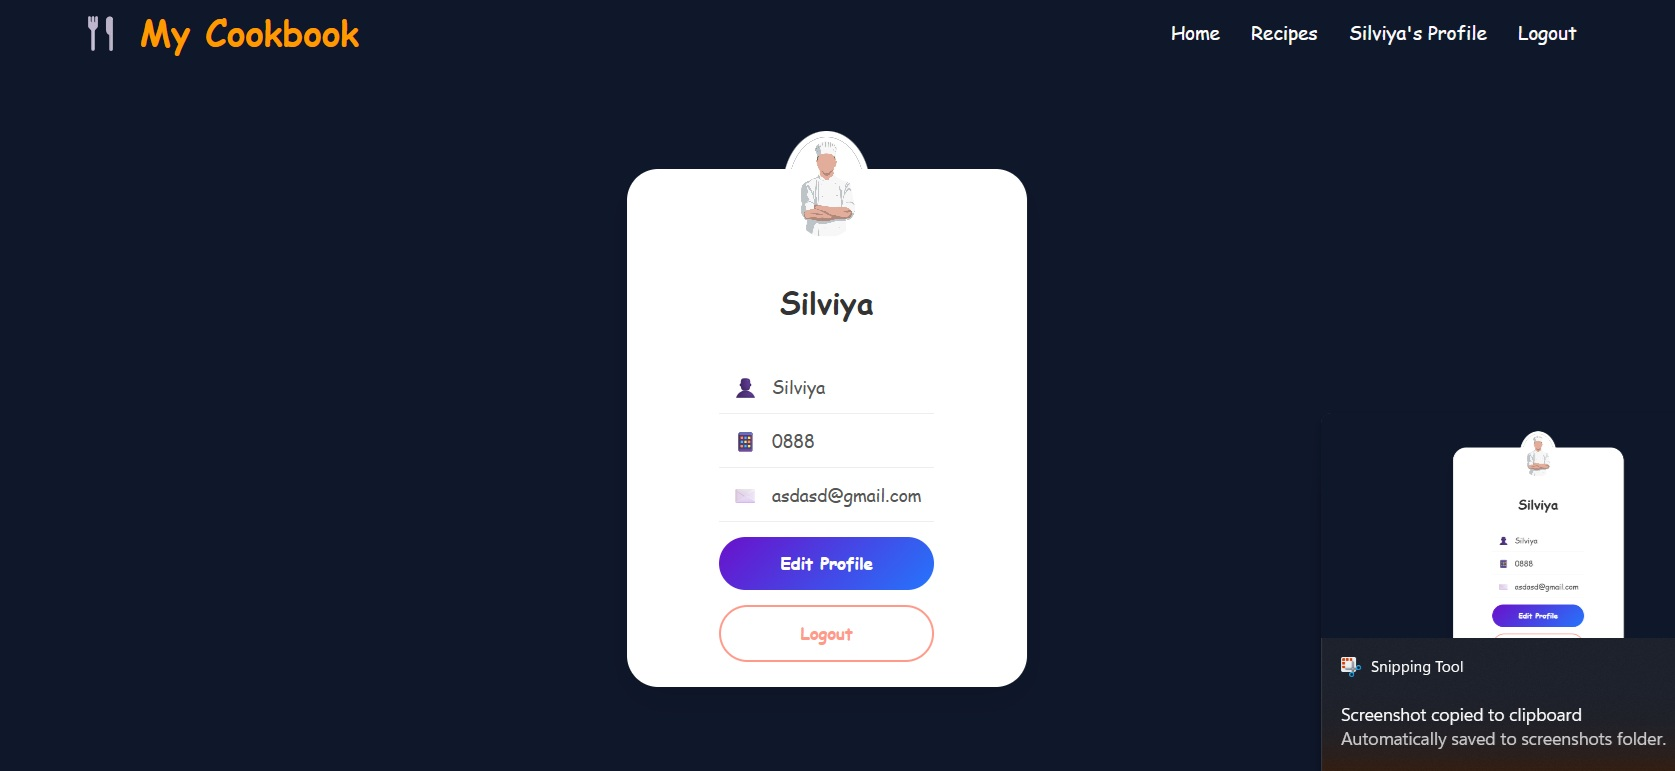
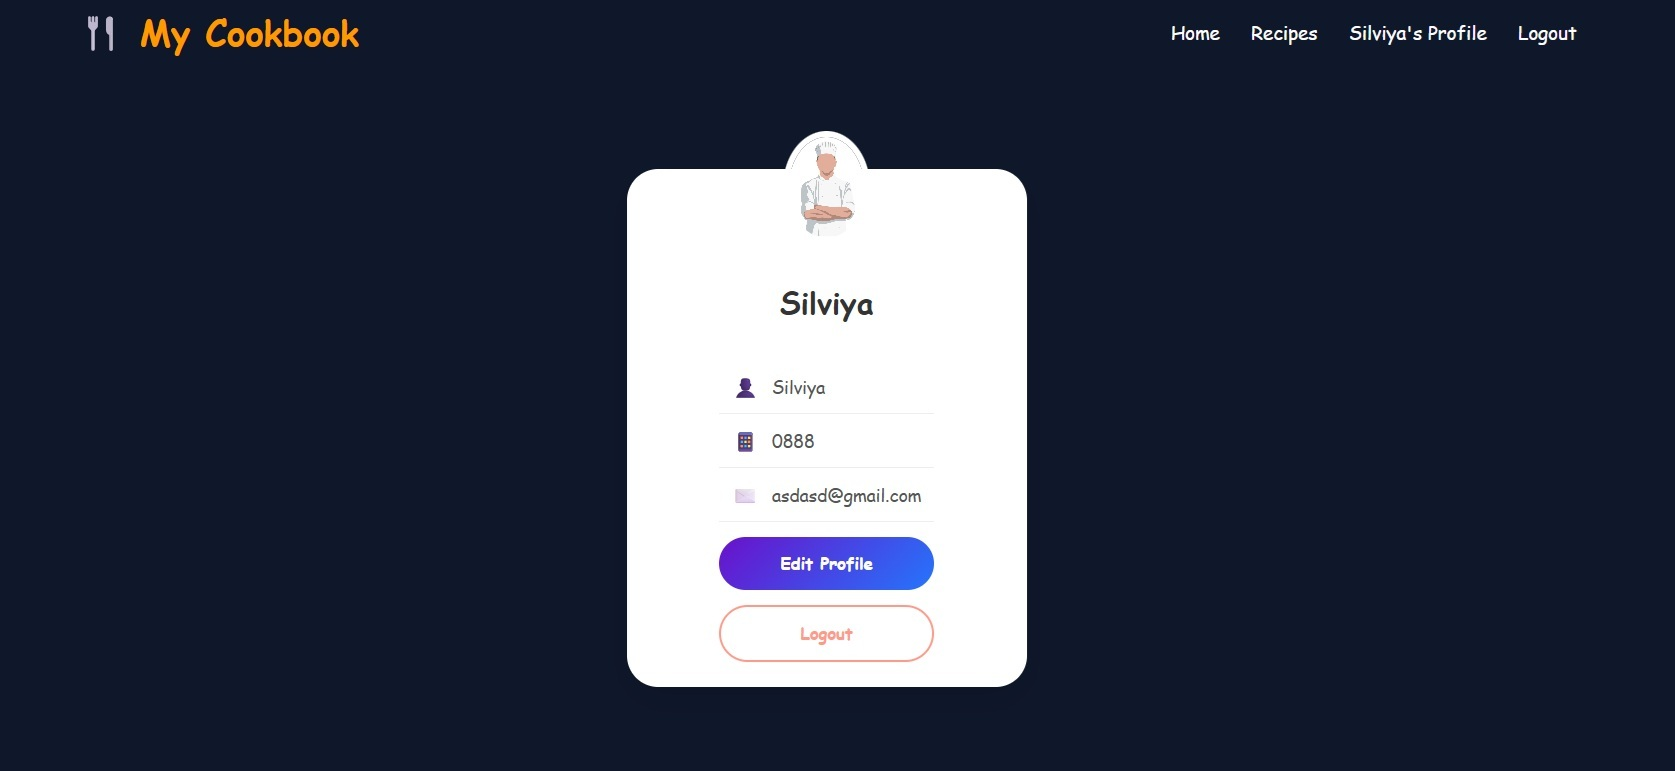
add delete component and upload readMe

Changed region(s): [[0.8693, 0.5603, 0.9934, 0.8405], [0.7761, 0.9027, 1.0, 1.0], [0.7761, 0.8405, 0.8693, 0.8716]]

diff --git a/My-Cookbook/src/app/features/recipes/delete-recipe/delete-recipe.ts b/My-Cookbook/src/app/features/recipes/delete-recipe/delete-recipe.ts
@@ -1,0 +1,65 @@
+import { Component, inject, OnInit } from '@angular/core';
+import { Recipe } from '../../../shared/interfaces/recipe';
+import { AuthService } from '../../../core/services/auth';
+import { ApiService } from '../../../core/services/api.service';
+import { ActivatedRoute, Router } from '@angular/router';
+
+@Component({
+  selector: 'app-delete-recipe',
+  imports: [],
+  templateUrl: './delete-recipe.html',
+  styleUrl: './delete-recipe.css',
+})
+export class DeleteRecipeComponent implements OnInit {
+  private route = inject(ActivatedRoute);
+  private router = inject(Router);
+  private apiService = inject(ApiService);
+  private authService = inject(AuthService);
+
+  recipe!: Recipe;
+  recipeId = '';
+
+  ngOnInit(): void {
+    this.recipeId = this.route.snapshot.params['recipeId'];
+    this.loadRecipe();
+  }
+
+  loadRecipe(): void {
+    this.apiService.getRecipeById(this.recipeId).subscribe({
+      next: (recipe) => {
+        this.recipe = recipe;
+      },
+      error: () => {
+        this.router.navigate(['/not-found'], { queryParams: { from: 'invalid-recipe' } });
+      },
+    });
+  }
+
+  isRecipeOwner(): boolean {
+    const currentUser = this.authService.currentUser();
+    if (!currentUser || !this.recipe) {
+      return false;
+    }
+
+    return this.recipe.owner === currentUser._id;
+  }
+
+  onDelete(): void {
+    if (!this.isRecipeOwner()) {
+      return;
+    }
+
+    this.apiService.deleteRecipe(this.recipeId).subscribe({
+      next: () => {
+        this.router.navigate(['/recipes'], { queryParams: { deleted: 'true' } });
+      },
+      error: () => {
+        this.router.navigate(['/not-found'], { queryParams: { from: 'invalid-recipe' } });
+      },
+    });
+  }
+
+  onCancel(): void {
+    this.router.navigate([`/recipes/${this.recipeId}`]);
+  }
+}

diff --git a/My-Cookbook/src/app/features/recipes/delete-recipe/delete-recipe.css b/My-Cookbook/src/app/features/recipes/delete-recipe/delete-recipe.css
@@ -1,0 +1,75 @@
+.delete-page {
+  margin: 0;
+  font-family: Arial, sans-serif;
+  background: #0f172b;
+  display: flex;
+  justify-content: center;
+  align-items: center;
+  height: 80vh;
+}
+
+.modal {
+  background: #fff;
+  width: 400px;
+  border-radius: 12px;
+  padding: 20px;
+  box-shadow: 0 10px 30px #0f172b;
+  text-align: center;
+}
+
+.modal h2 {
+  margin-bottom: 10px;
+  color: #333;
+}
+
+.recipe-img {
+  width: 100%;
+  height: 200px;
+  object-fit: cover;
+  border-radius: 10px;
+  margin: 10px 0;
+}
+
+.recipe-name {
+  font-size: 18px;
+  font-weight: bold;
+  margin: 10px 0;
+  color: #444;
+}
+
+.message {
+  margin: 10px 0 20px;
+  color: #666;
+}
+
+.buttons {
+  display: flex;
+  justify-content: space-between;
+  gap: 10px;
+}
+
+button {
+  flex: 1;
+  padding: 10px;
+  border: none;
+  border-radius: 8px;
+  cursor: pointer;
+  font-size: 14px;
+}
+
+.cancel {
+  background: #ddd;
+}
+
+.delete {
+  background: #e74c3c;
+  color: white;
+}
+
+.cancel:hover {
+  background: #ccc;
+}
+
+.delete:hover {
+  background: #c0392b;
+}

diff --git a/My-Cookbook/src/app/features/recipes/recipes-detail/recipe-detail.ts b/My-Cookbook/src/app/features/recipes/recipes-detail/recipe-detail.ts
@@ -59,19 +59,12 @@ export class RecipeDetailComponent implements OnInit {
     this.router.navigate([`recipes/${recipeId}/edit`]);
   }
 
-  onDelete(): void {
+  goToDeleteMode(recipeId: string): void {
     if (!this.isRecipeOwner()) {
       return;
     }
 
-    this.apiService.deleteRecipe(this.recipeId).subscribe({
-      next: () => {
-        this.router.navigate(['/recipes'], { queryParams: { deleted: 'true' } });
-      },
-      error: () => {
-        this.router.navigate(['/not-found'], { queryParams: { from: 'invalid-recipe' } });
-      },
-    });
+    this.router.navigate([`recipes/${recipeId}/delete`]);
   }
 
   onCancel(): void {

diff --git a/My-Cookbook/src/app/features/recipes/delete-recipe/delete-recipe.html b/My-Cookbook/src/app/features/recipes/delete-recipe/delete-recipe.html
@@ -1,0 +1,22 @@
+<section class="delete-page">
+  <title>Delete Recipe</title>
+
+  <div class="modal">
+    <h2>Confirm Delete</h2>
+
+    <img
+      class="recipe-img"
+      [src]="recipe?.imageUrl || 'https://via.placeholder.com/400x200'"
+      [alt]="recipe?.name || 'Recipe Image'"
+    />
+
+    <div class="recipe-name">{{ recipe?.name }}</div>
+
+    <div class="message">Are you sure you want to delete this recipe?</div>
+
+    <div class="buttons">
+      <button class="cancel" (click)="onCancel()">Cancel</button>
+      <button class="delete" (click)="onDelete()">Delete</button>
+    </div>
+  </div>
+</section>

diff --git a/My-Cookbook/src/app/features/recipes/recipes-detail/recipe-detail.html b/My-Cookbook/src/app/features/recipes/recipes-detail/recipe-detail.html
@@ -17,7 +17,7 @@
         <button class="cancel-details" (click)="onCancel()">Go Back</button>
         @if (isRecipeOwner()) {
           <button class="edit-details" (click)="goToEditMode(recipe._id)">Edit</button>
-          <button class="delete-details" (click)="onDelete()">Delete</button>
+          <button class="delete-details" (click)="goToDeleteMode(recipe._id)">Delete</button>
         }
       </div>
     </div>

diff --git a/My-Cookbook/src/app/app.routes.ts b/My-Cookbook/src/app/app.routes.ts
@@ -31,6 +31,12 @@ export const routes: Routes = [
       import('./features/recipes/edit-recipe/edit-recipe').then((m) => m.EditRecipeComponent),
     canActivate: [authGuard],
   },
+  {
+    path: 'recipes/:recipeId/delete',
+    loadComponent: () =>
+      import('./features/recipes/delete-recipe/delete-recipe').then((m) => m.DeleteRecipeComponent),
+    canActivate: [authGuard],
+  },
 
   {
     path: 'register',

diff --git a/README.md b/README.md
@@ -87,6 +87,7 @@ The goal of this recipe site is to help people discover, learn, and successfully
    - features/my-profile component
    - features/not-found component
    - features/recipes component
+   - features/recipes/delete-recipe component
    - features/recipes/edit-recipe component
    - features/recipes/new-recipe component
    - features/recipes/recipe-detail component
@@ -149,6 +150,9 @@ The goal of this recipe site is to help people discover, learn, and successfully
 
 ### Edit Page - Only for Owner of recipes
 ![Edit](https://raw.githubusercontent.com/SilviyaIvanova91/My-Cookbook-With-Angular/main/cookbook-site-in-picture/editRecipePage.jpg)
+
+### Delete Page - Only for Owner of recipes
+![Edit](https://raw.githubusercontent.com/SilviyaIvanova91/My-Cookbook-With-Angular/main/cookbook-site-in-picture/deletePage.jpg)
 
 ### My Profile Page
 ![MyProfile](https://raw.githubusercontent.com/SilviyaIvanova91/My-Cookbook-With-Angular/main/cookbook-site-in-picture/myProfilePage.jpg)
